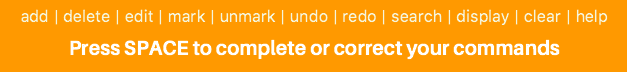
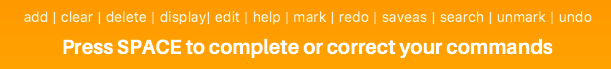
fixed bug with display and updated tutorial

Changed region(s): [[0.0311, 0.1159, 0.9951, 0.3478], [0.0933, 0.5507, 0.9329, 0.8406]]

diff --git a/CataList/src/ui/Application/Stylesheets/MainGUI.css b/CataList/src/ui/Application/Stylesheets/MainGUI.css
@@ -298,7 +298,7 @@
 
 #feedbackHelp {
 	-fx-font-family: "Aileron Semi Bold";
-    -fx-font-size: 16px;
+    -fx-font-size: 14px;
     -fx-fill: beige;
 }
 
@@ -330,7 +330,7 @@
 #tutorialSamples {
 	-fx-font-family: Monospaced;
 	-fx-font-size: 14px;
-	-fx-fill: blue;
+	-fx-fill: orangered;
 }
 
 #emptyRow {

diff --git a/CataList/src/ui/Controllers/FeedbackGenerator.java b/CataList/src/ui/Controllers/FeedbackGenerator.java
@@ -6,10 +6,10 @@ import javafx.scene.text.Text;
 public class FeedbackGenerator {
 
 	private static final String FEEDBACK_COMMANDS = 
-			"add | delete | edit | mark | unmark | undo | redo | search | display | clear | help";
-	private static final String FEEDBACK_ADD = "add [task] -d [date] -t [time]";
+			"add | clear | delete | display| edit | help | mark | redo | saveas | search | unmark | undo";
+	private static final String FEEDBACK_ADD = "add [task] [date] [time]";
 	private static final String FEEDBACK_DELETE = "delete [task number]";
-	private static final String FEEDBACK_EDIT = "edit [task number] [new task] -d [new date] -t [new time]";
+	private static final String FEEDBACK_EDIT = "edit [task number] [new task] [new date] [new time]";
 	private static final String FEEDBACK_MARK = "mark [task number]";
 	private static final String FEEDBACK_UNMARK = "unmark [task number]";
 	private static final String FEEDBACK_SEARCH = "search [keyword]";

diff --git a/CataList/src/ui/Controllers/ListInterfaceController.java b/CataList/src/ui/Controllers/ListInterfaceController.java
@@ -548,30 +548,37 @@ public class ListInterfaceController {
 	}
 
 	public void displayPending() {
+		main.setOperatingListAsIncomplete();
 		todoList.setItems(pendingTasks);
 	}
 
 	public void displayComplete() {
+		main.setOperatingListAsComplete();
 		todoList.setItems(completedTasks);
 	}
 
 	public void displayToday() {
+		main.setOperatingListAsIncomplete();
 		todoList.setItems(todayTasks);
 	}
 
 	public void displayTomorrow() {
+		main.setOperatingListAsIncomplete();
 		todoList.setItems(tomorrowTasks);
 	}
 
 	public void displayOverdue() {
+		main.setOperatingListAsIncomplete();
 		todoList.setItems(overdueTasks);
 	}
 
 	public void displayOthers() {
+		main.setOperatingListAsIncomplete();
 		todoList.setItems(otherTasks);
 	}
 
 	public void displayFloat() {
+		main.setOperatingListAsIncomplete();
 		todoList.setItems(floatingTasks);
 	}
 

diff --git a/CataList/src/ui/Controllers/MainGUIController.java b/CataList/src/ui/Controllers/MainGUIController.java
@@ -128,12 +128,18 @@ public class MainGUIController {
 	}
 
 	public ArrayList<Task> getIncompleteTasksFromLogic() {
-		logic.operatingToIncomplete();
 		return logic.getOperatingTasksForUI();
 	}
 	
 	public ArrayList<Task> getCompletedTasksFromLogic() {
-		logic.operatingToComplete();
 		return logic.getCompleteTasksForUI();
+	}
+	
+	public void setOperatingListAsComplete() {
+		logic.operatingToComplete();
+	}
+	
+	public void setOperatingListAsIncomplete() {
+		logic.operatingToIncomplete();
 	}
 }
